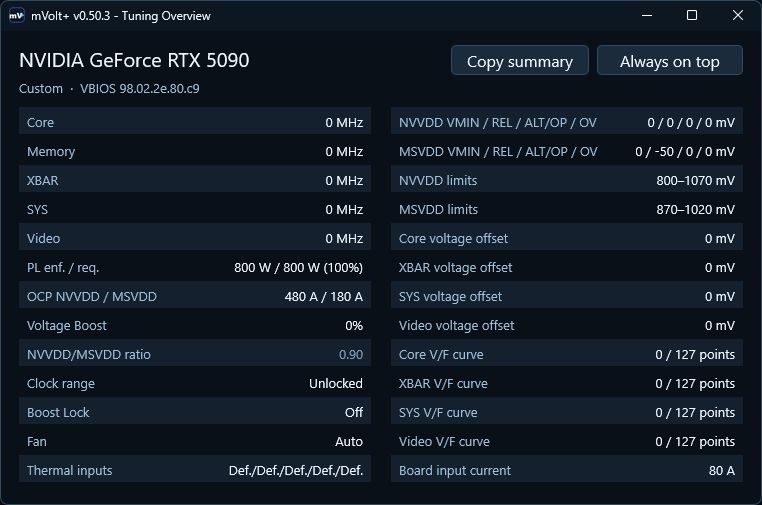
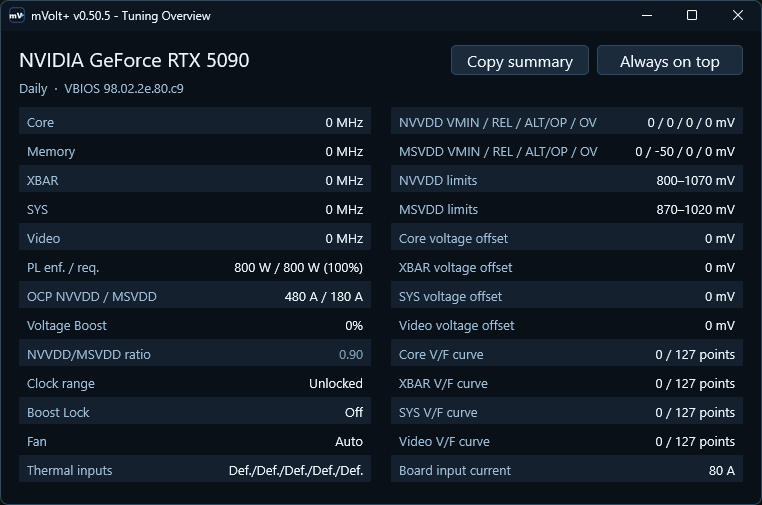
v0.50.5

Changed region(s): [[0.0302, 0.1485, 0.2717, 0.2079]]

diff --git a/docs/guide.md b/docs/guide.md
@@ -33,10 +33,14 @@ for details. Screenshots are from the v0.50.x series.
 ## How the dashboard works
 
 The header identifies the selected GPU, driver and VBIOS. Its live readings show
-core and memory clocks, voltage, power, GPU temperature and supported hotspot temperature.
+supported XBAR and SYS clocks, memory and core clocks, voltage, power, GPU
+temperature and supported hotspot temperature.
 GDDR6X/GDDR7 memory uses command-clock MHz; hover for the driver-reported frequency.
-Below the readings, the profile selector sits beside **Reset all** and **Settings**
-and shows the recognized saved profile or **Custom**.
+Below the readings, **Save**, **Reset all** and **Settings** sit beside the
+profile selector, which shows the recognized saved profile or **Custom**. Its dot
+is green while the applied settings match that profile, amber after you apply
+other changes, and grey for **Custom**. **Save** stores the applied settings in
+the changed profile; under **Custom** it opens **Save current as…**.
 
 | Label or action | Meaning |
 | --- | --- |
@@ -46,7 +50,7 @@ and shows the recognized saved profile or **Custom**.
 | **Applied** | The setting currently reported by the driver, separate from measured behavior |
 | **Live** | A changing measurement, such as clock, watts or RPM |
 | **Allowed** | The editing range available in the current configuration |
-| **Review…** | Lists pending changes before you apply them |
+| **Review…** | Lists pending changes before you apply them; the latest status appears beside it, and failures show in red |
 | **Apply changes** | Applies the values in enabled controls and checks the result |
 | **Reapply enabled** | Sends enabled targets again, even with no numeric edits pending |
 | **Discard pending** | Discards unapplied edits. Tile and V/F switches stay as they are |
@@ -60,6 +64,8 @@ Minimal uses shared actions and row context menus instead of per-card buttons.
 
 Slider, stepper and text edits are pending until Apply. A card-specific Apply
 acts on that card; **Apply fans** acts on the fan tile. Other edits remain pending.
+In Standard, each card keeps **Apply** beside **Reset**; Apply stays grey until
+that card has a change to apply, including after you return to the applied value.
 Pressing **Enter** in a numeric field applies that control. In the V/F and fan
 editors, Enter applies the current curve or policy.
 Reset is immediate and needs no second Apply.
@@ -698,7 +704,9 @@ does not change the GPU. Opening or switching curves never enables them.
 | Selected MHz → Set point | Sets the selected point's pending frequency |
 | Point offset → Set offset | Sets the selected points' pending frequency offsets |
 | Enter in a frequency or offset field | Applies the selected curve with the entered value |
-| Flatten above | Flattens the pending curve from the selected point through higher-voltage points, keeping the current graph scale |
+| Flatten above | Sets the selected point to **Selected MHz** and flattens the points after it, keeping the current graph scale |
+| Flatten above chevron | Chooses **Drop tail** (default) or **Match tail**; the choice is remembered |
+| Info button beside the chevron | Previews both modes on this curve |
 | Lock voltage point (Core only) | Immediately requests the selected point's voltage bin; click Release voltage point to release it |
 | Limit max clock (Core only) | Immediately caps core frequency at the selected point's displayed frequency, including pending edits; click Release clock limit to release it |
 | Undo / Redo | Restores pending edits; a drag is one history step |
@@ -740,6 +748,16 @@ the voltage and clocks actually reached; use Telemetry to inspect those readings
 
 **Flatten above does not lock voltage.** It shapes frequency at higher-voltage
 points; the GPU still selects an operating point under its active limits.
+
+| Mode | What it does |
+| --- | --- |
+| **Drop tail** (default) | Sets the later points to a combined −1000 MHz offset, or lower where needed, so they stay flat. This is the generally recommended way to undervolt. |
+| **Match tail** | Gives each later point its own offset: exact now, but warming can lift some above the selected point. |
+
+The preview's warming slider illustrates how heat from real workloads could shift
+each tail. Hollow dots mark lowered points that the driver lifts to the plateau. Voltages past the
+rail's current voltage limit are shaded and their points dimmed; hovering such a
+point shows the limit.
 
 ### Core live readings and locks
 
@@ -956,19 +974,22 @@ a tuning profile.
 ### Header profile menu
 
 Open the profile selector beside **Reset all** and **Settings**. Each row shows
-the profile name, save mode and an indicator for the active profile.
+the profile name and save mode, and a dot on the active profile. A row's actions
+appear when you hover over it or select it with the keyboard.
 
 | Action | What it does |
 | --- | --- |
 | Click the profile name | Applies the saved profile immediately |
-| Details (gear) | Opens the saved parameters, name and shortcut |
-| Overwrite (disk) | Saves current applied settings into that profile, keeping its save mode |
+| Details (info icon) | Opens the saved parameters, name, shortcut and logon option |
+| Overwrite (disk) | Saves current applied settings into that profile after confirmation, keeping its save mode |
 | Delete (trash) | Removes the profile after confirmation |
 | Save current as… | Opens a new-profile form with a preview and save-mode choice |
 
 Use the mouse wheel or keyboard to navigate a long menu. In **Details**, edit
-the name and press Enter to save it, or capture a new shortcut. Profile changes
-save in the background, with feedback in the dashboard status bar.
+the name and press Enter to save it, or capture a new shortcut. **Apply this
+profile at logon** makes it the startup profile. **Load for editing** stages its
+settings on the dashboard without applying them. Profile changes save in the
+background, with feedback in the dashboard status bar.
 
 ![Profile selector](../assets/mvolt-profile-menu.png)
 
@@ -980,13 +1001,15 @@ Choose **Save current as…**, enter a name, choose the save mode,
 review the parameter preview and click **Save**. Open **Details** to inspect
 saved parameters or set the new profile's shortcut.
 
-To update a profile, apply it, make and apply your dashboard changes, then use
-that profile's **Overwrite** icon. Saving and overwriting run in the background
-and capture applied settings; pending edits stay in the editor.
+To update a profile, apply it, make and apply your dashboard changes, then
+click the header **Save** button, or use that profile's **Overwrite** icon.
+Saving and overwriting run in the background and capture applied settings;
+pending edits stay in the editor. The saved profile becomes the current profile.
 
 After an apply, mVolt+ can recognize the profile on the next launch if the GPU
 settings still match, without applying it again. **Custom** means no saved
-profile is currently identified as active.
+profile is currently identified as active; the header **Save** then opens
+**Save current as…**.
 
 Both modes save applied curve and fan settings, leaving out pending changes.
 A running fan curve's changing duty is a live reading, not a pending edit.
@@ -1010,10 +1033,12 @@ or as a visible window. Enable **Apply startup profile, then exit** to close
 after successfully applying your selected startup profile. This option refuses
 profiles with a software fan curve, which requires mVolt+ to stay running.
 
-If a startup profile is already configured, mVolt+ applies it automatically.
+Choose the startup profile with **Apply this profile at logon** in that profile's
+**Details**; checking it also turns on Start with Windows. If a startup profile
+is configured, mVolt+ applies it automatically.
 Without one, the app starts without applying tuning. A successfully applied profile is
 shown by name; the header menu marks it with a green dot and the tray menu with
-a checkmark. Custom settings leave the saved-profile entries unmarked.
+a checkmark. Custom or changed settings leave the tray entries unchecked.
 
 mVolt+ waits for the GPU to become ready before applying your startup profile.
 You do not need to open NVIDIA Control Panel. If application fails, mVolt+
@@ -1249,11 +1274,12 @@ a narrow single-column layout, on later launches and after Windows logon.
 If the saved monitor is unavailable or its work area is smaller, the window is
 moved or fitted to the available display. Maximized state is saved separately.
 
-**Debug report…** and **Project / help** are in General. Tray preferences are
+**About** and **Debug report…** are in General. Tray preferences are
 explained in [Startup and tray](#startup-and-tray). Tile visibility lives in
 **Sections → Show/Hide tiles**. Choose the profile save mode in the save form.
 Debug report creates a local diagnostic report; it is not sent automatically.
-Project / help opens the project's page.
+About shows the version, a link to the project page and third-party notices,
+including the license text of the included PawnIO modules.
 
 **Reset app preferences** restores this GPU's app preferences to fresh-install
 defaults: no Quick tuning pins, all sections expanded and tiles visible, voltage
@@ -1271,7 +1297,8 @@ intervals reduce updates and also slow software fan-curve responses.
 
 **Pause when minimized or in tray** pauses general monitoring unless a visible
 monitoring window or overlay needs it. An active fan curve still performs its
-required temperature checks.
+required temperature checks. NVML readings are collected only while Telemetry or
+Overview is open, or an overlay GPU-load or power line is selected.
 
 To use RTSS, run RivaTuner Statistics Server, enable **Show telemetry in the RTSS
 overlay**, and choose your readings. RTSS must also display its overlay in the
@@ -1283,6 +1310,22 @@ core/memory/fabric clocks, GPU/hotspot/memory temperatures, fan duty/RPM, power
 versus enforced limit, GPU load and VRAM used/total. Use the group buttons to
 find each option; the **Overlay preview** shows the selected lines. Missing or
 stale GPU readings are omitted. VRAM usage is for the whole GPU, not just the current game.
+
+Drag a line in the preview to change its position in the overlay. Right-click a
+line to set its label or value color, or to reset them.
+
+The **CPU** and **Memory** groups add system readings:
+
+| Reading | Source |
+| --- | --- |
+| CPU load, RAM used / total, RAM speed | Windows |
+| CPU effective clock, CPU temperature, CPU power | [PawnIO](https://pawnio.eu) |
+| RAM temperature (hottest DDR5 module) | [PawnIO](https://pawnio.eu) |
+
+PawnIO is a free signed driver that you install separately; mVolt+ includes only
+its small read modules. Both groups show the PawnIO status, and **Get PawnIO ↗**
+opens its download page while it is missing. mVolt+ releases PawnIO when no
+PawnIO line is selected, so it can be updated or removed without restarting.
 
 The **Frame rate** group adds FPS, frame time, average FPS, 1% low and 0.1% low.
 RTSS supplies these values in the target application. Start RTSS benchmark
@@ -1375,17 +1418,19 @@ into three sections:
 | Section | Controls |
 | --- | --- |
 | **Clock offsets** | Minimum and maximum offsets for Core, Memory, XBAR, SYS and Video |
-| **Power & voltage** | Power limit, board input current, NVVDD/MSVDD voltage ceilings and NVVDD/MSVDD OCP maximums |
+| **Power & voltage** | Power limit, board input current, NVVDD/MSVDD voltage ceilings, NVVDD/MSVDD OCP maximums and Speedo |
 | **Fans** | Logical fan-channel count and PWM frequency |
 
 ![BIOS override](../assets/mvolt-bios-override.png)
 
 Choose **Direct** to edit limits without a BIOS file, or **BIOS file** to use a
-BIOS copy. Direct is the default. Available methods depend on the driver; hover
-over an unavailable method for the reason. Existing saved limits remain manageable.
+BIOS copy. Direct is the default. BIOS file needs NVIDIA driver 616 or newer;
+hover over an unavailable method for the reason. Existing saved limits remain manageable.
 
 Both methods save an override in this Windows installation without flashing
 the card's BIOS. Saved overrides remain active across reboots until reverted.
+The first time you open BIOS override, a short note explains both methods, how
+to get a BIOS copy and this persistence.
 
 ### Load, save and apply
 
@@ -1419,6 +1464,11 @@ on the voltage limit the card can reach.
 
 **NVVDD OCP maximum** and **MSVDD OCP maximum** set each rail's available current
 limit in amps, independently of board power and board input current.
+
+**Speedo** overrides the Speedo value the driver reports for this GPU; its effect
+on voltage and clocks depends on the driver and firmware. **Active** matches the
+Telemetry reading. A Speedo-only change can be saved with either method, without
+a BIOS copy.
 
 **Fan layout** selects 0–4 logical channels. **PWM frequency** selects 25 or
 27 kHz and is separate from fan duty and RPM targets. **Mixed** means the active
@@ -1484,16 +1534,18 @@ use **Restart Windows** or **Later** when those are the offered actions.
 Keep `%PROGRAMDATA%\mVolt+\NativeLimits`. Deleting it does not remove an active
 override and can lose the saved starting state. If it is missing, reopen mVolt+
 and follow the recovery action offered in this dialog; **Revert changes** can
-remove an override that no longer has recovery data. If recovery still fails,
-keep the remaining files and [report the issue](https://github.com/b00nz/mVolt/issues).
+remove an override that no longer has recovery data. When offered, **Repair
+permissions** fixes access to that folder and checks again, keeping GPU settings
+and recovery files. If recovery still fails, keep the remaining files and
+[report the issue](https://github.com/b00nz/mVolt/issues).
 
 <details>
 <summary><strong>Recovery when the NVIDIA driver cannot start</strong></summary>
 
-If mVolt+ offers startup recovery, choose **Remove BIOS override** to remove the
-stored override for the affected GPU. After removal, choose **Restart Windows**
-or **Later**. Restart Windows before checking the GPU again. Removal does not
-restart Windows automatically.
+If Windows cannot start the GPU (Code 43) while a BIOS override is stored,
+mVolt+ offers startup recovery. Choose **Remove BIOS override**, then **Restart
+GPU**, **Restart Windows** or **Later**. If the GPU recovers, mVolt+ reopens on
+it; otherwise restart Windows. Nothing restarts automatically.
 
 If the saved recovery data is intact, open an administrator PowerShell window
 in the mVolt+ folder. Replace `RECORD_ID` with the 64-character folder name for

diff --git a/README.md b/README.md
@@ -22,18 +22,18 @@ the currently downloadable version.
 
 ## v0.50.x highlights
 
-- **BIOS override:** Direct and BIOS-file methods for clock-offset ranges, power/current limits and NVVDD/MSVDD voltage and OCP ceilings, with BIOS defaults beside active values. [Guide](docs/guide.md#bios-override).
+- **BIOS override:** Direct and BIOS-file methods for clock-offset ranges, power/current limits, NVVDD/MSVDD voltage and OCP ceilings and Speedo, with BIOS defaults beside active values and Restart GPU recovery. [Guide](docs/guide.md#bios-override).
 - **Power and current:** percentage or watt-based power control, separate board-input current control, and profile and Overview support.
 - **Fan control:** a unified mVolt / GPU editor with temperature, PWM and RPM fields, saved GPU policies and startup Apply, then exit. BIOS override adds fan layout and PWM frequency controls.
 - **Thermal limit:** a separate temperature-limit control in °C, with profile support and Reset.
-- **Curves:** Core and fabric V/F editing, software fan curves, precise point selection and dragging, and improved curve preservation during Apply and Reset.
-- **Dashboard:** Standard and Minimal / Compact layouts, expandable fan and thermal rows, independent overvoltage switches and visibility, corrected sliders, a memory-clock header reading and Enter-to-apply.
-- **Profiles:** normal profiles and full snapshots, a redesigned selector with save, overwrite and delete actions, clear save previews, compact details, editable names and shortcuts, and the applied profile name in `--status` JSON.
+- **Curves:** Core and fabric V/F editing, Flatten above with Drop tail / Match tail and a warming preview, software fan curves, precise point selection and dragging, and improved curve preservation during Apply and Reset.
+- **Dashboard:** Standard and Minimal / Compact layouts, expandable fan and thermal rows, independent overvoltage switches and visibility, corrected sliders, memory, XBAR and SYS clock header readings, per-card Apply beside Reset and Enter-to-apply.
+- **Profiles:** normal profiles and full snapshots, a redesigned selector with save, overwrite and delete actions and an active-profile dot, a header Save button, clear save previews, compact details with Load for editing, editable names and shortcuts, and the applied profile name in `--status` JSON.
 - **Telemetry:** expanded GPU and memory temperatures, firmware-reported Vrel, ASIC information with Speedo and a copyable ECID, and older memory V/F model support.
-- **RTSS overlay:** GPU readings, profile and Boost Lock state, FPS, frame time, average FPS and lows, with grouped settings and a preview.
+- **RTSS overlay:** GPU readings, profile and Boost Lock state, FPS, frame time, average FPS and lows, plus CPU and RAM readings through the optional PawnIO driver, with grouped settings, reorderable lines, custom colors and a preview.
 - **Shortcuts:** global profile shortcuts, Toggle Boost Lock and Toggle RTSS overlay, including tray operation.
 - **Shunt multiplier:** correction for power and current readings, board-power Request and Runtime limits, and RTSS.
-- **Everyday use:** clearer hover help, accessible profile menus, background saves and improved window handling across displays and scaling changes.
+- **Everyday use:** clearer hover help, accessible profile menus, background saves, fully drawn menus and windows, and improved window handling across displays and scaling changes.
 - **Recovery and compatibility:** improved Apply, Reset all, limit-method switching, startup recovery and restart handling, plus broader support for older GPUs and laptop power/current controls.
 
 [Release notes](https://github.com/b00nz/mVolt/releases) · [Get a BIOS copy](docs/guide.md#bios-copy)
@@ -96,9 +96,11 @@ Existing profiles keep their saved settings until overwritten.
 
 Select a profile from the header menu or use its global shortcut to apply it
 immediately. The selector offers **Details**, **Overwrite** and **Delete** beside
-each profile, plus **Save current as…**. Details shows the saved settings and
-lets you rename the profile or change its shortcut. Shortcut changes save
-without overwriting tuning values.
+each profile, plus **Save current as…**. Its dot is green while the applied
+settings match the profile, amber after changes and grey for Custom; the header
+**Save** button stores the changes. Details shows the saved settings, lets you
+rename the profile or change its shortcut, and offers **Load for editing**.
+Shortcut changes save without overwriting tuning values.
 
 On supported GPUs, applying a watt target also aligns the board-power request
 with it. Applying a percentage profile releases a cap owned by mVolt+ first.
@@ -112,8 +114,9 @@ curves are left out. Full snapshots save supported curves even when disabled.
 A profile that does not contain a curve leaves it unchanged.
 
 In **Settings → General**, enable **Start with Windows** and choose whether to
-**Start minimized to tray**. A selected startup profile applies either way;
-enable **Apply startup profile, then exit** to close after applying it.
+**Start minimized to tray**. Choose the startup profile with **Apply this profile
+at logon** in the profile's Details; it applies either way. Enable **Apply startup
+profile, then exit** to close after applying it.
 Software fan curves require mVolt+ to stay running.
 Supported GPU fan policies can also be saved in profiles and used with Apply, then exit.
 Set **Toggle Boost Lock** and **Toggle RTSS overlay** in **Settings → Hotkeys**.
@@ -143,7 +146,12 @@ RivaTuner Statistics Server is optional and only needed for its on-screen
 overlay. Choose the readings in **Settings → Monitoring**, including the applied
 profile, Boost Lock, clocks, temperatures, fan duty/RPM, power versus limit,
 GPU load, VRAM usage and frame statistics. Average FPS, 1% low and 0.1% low use
-RTSS benchmark recording. Grouped settings and an overlay preview help arrange the readings.
+RTSS benchmark recording. Grouped settings and an overlay preview help arrange the
+readings; drag a preview line to reorder it and right-click it for colors.
+
+CPU clock, temperature and power, and DDR5 RAM temperature, need the free
+[PawnIO](https://pawnio.eu) driver, which you install separately. Other CPU and
+RAM readings come from Windows.
 
 For a shunt-modded card, **Settings → Advanced tuning → Shunt multiplier** can
 correct supported power and current displays. It does not change tuning values.
@@ -265,6 +273,7 @@ Screenshots from the v0.50.x series.
 - Administrator privileges for tuning.
 - Working NVML support for GPU clock-range control and NVML telemetry.
 - RivaTuner Statistics Server only for the optional overlay.
+- PawnIO only for some optional CPU and RAM overlay readings.
 
 mVolt+ is an independent third-party project, not affiliated with or endorsed
 by NVIDIA. NVIDIA, GeForce and RTX are trademarks of NVIDIA Corporation.
